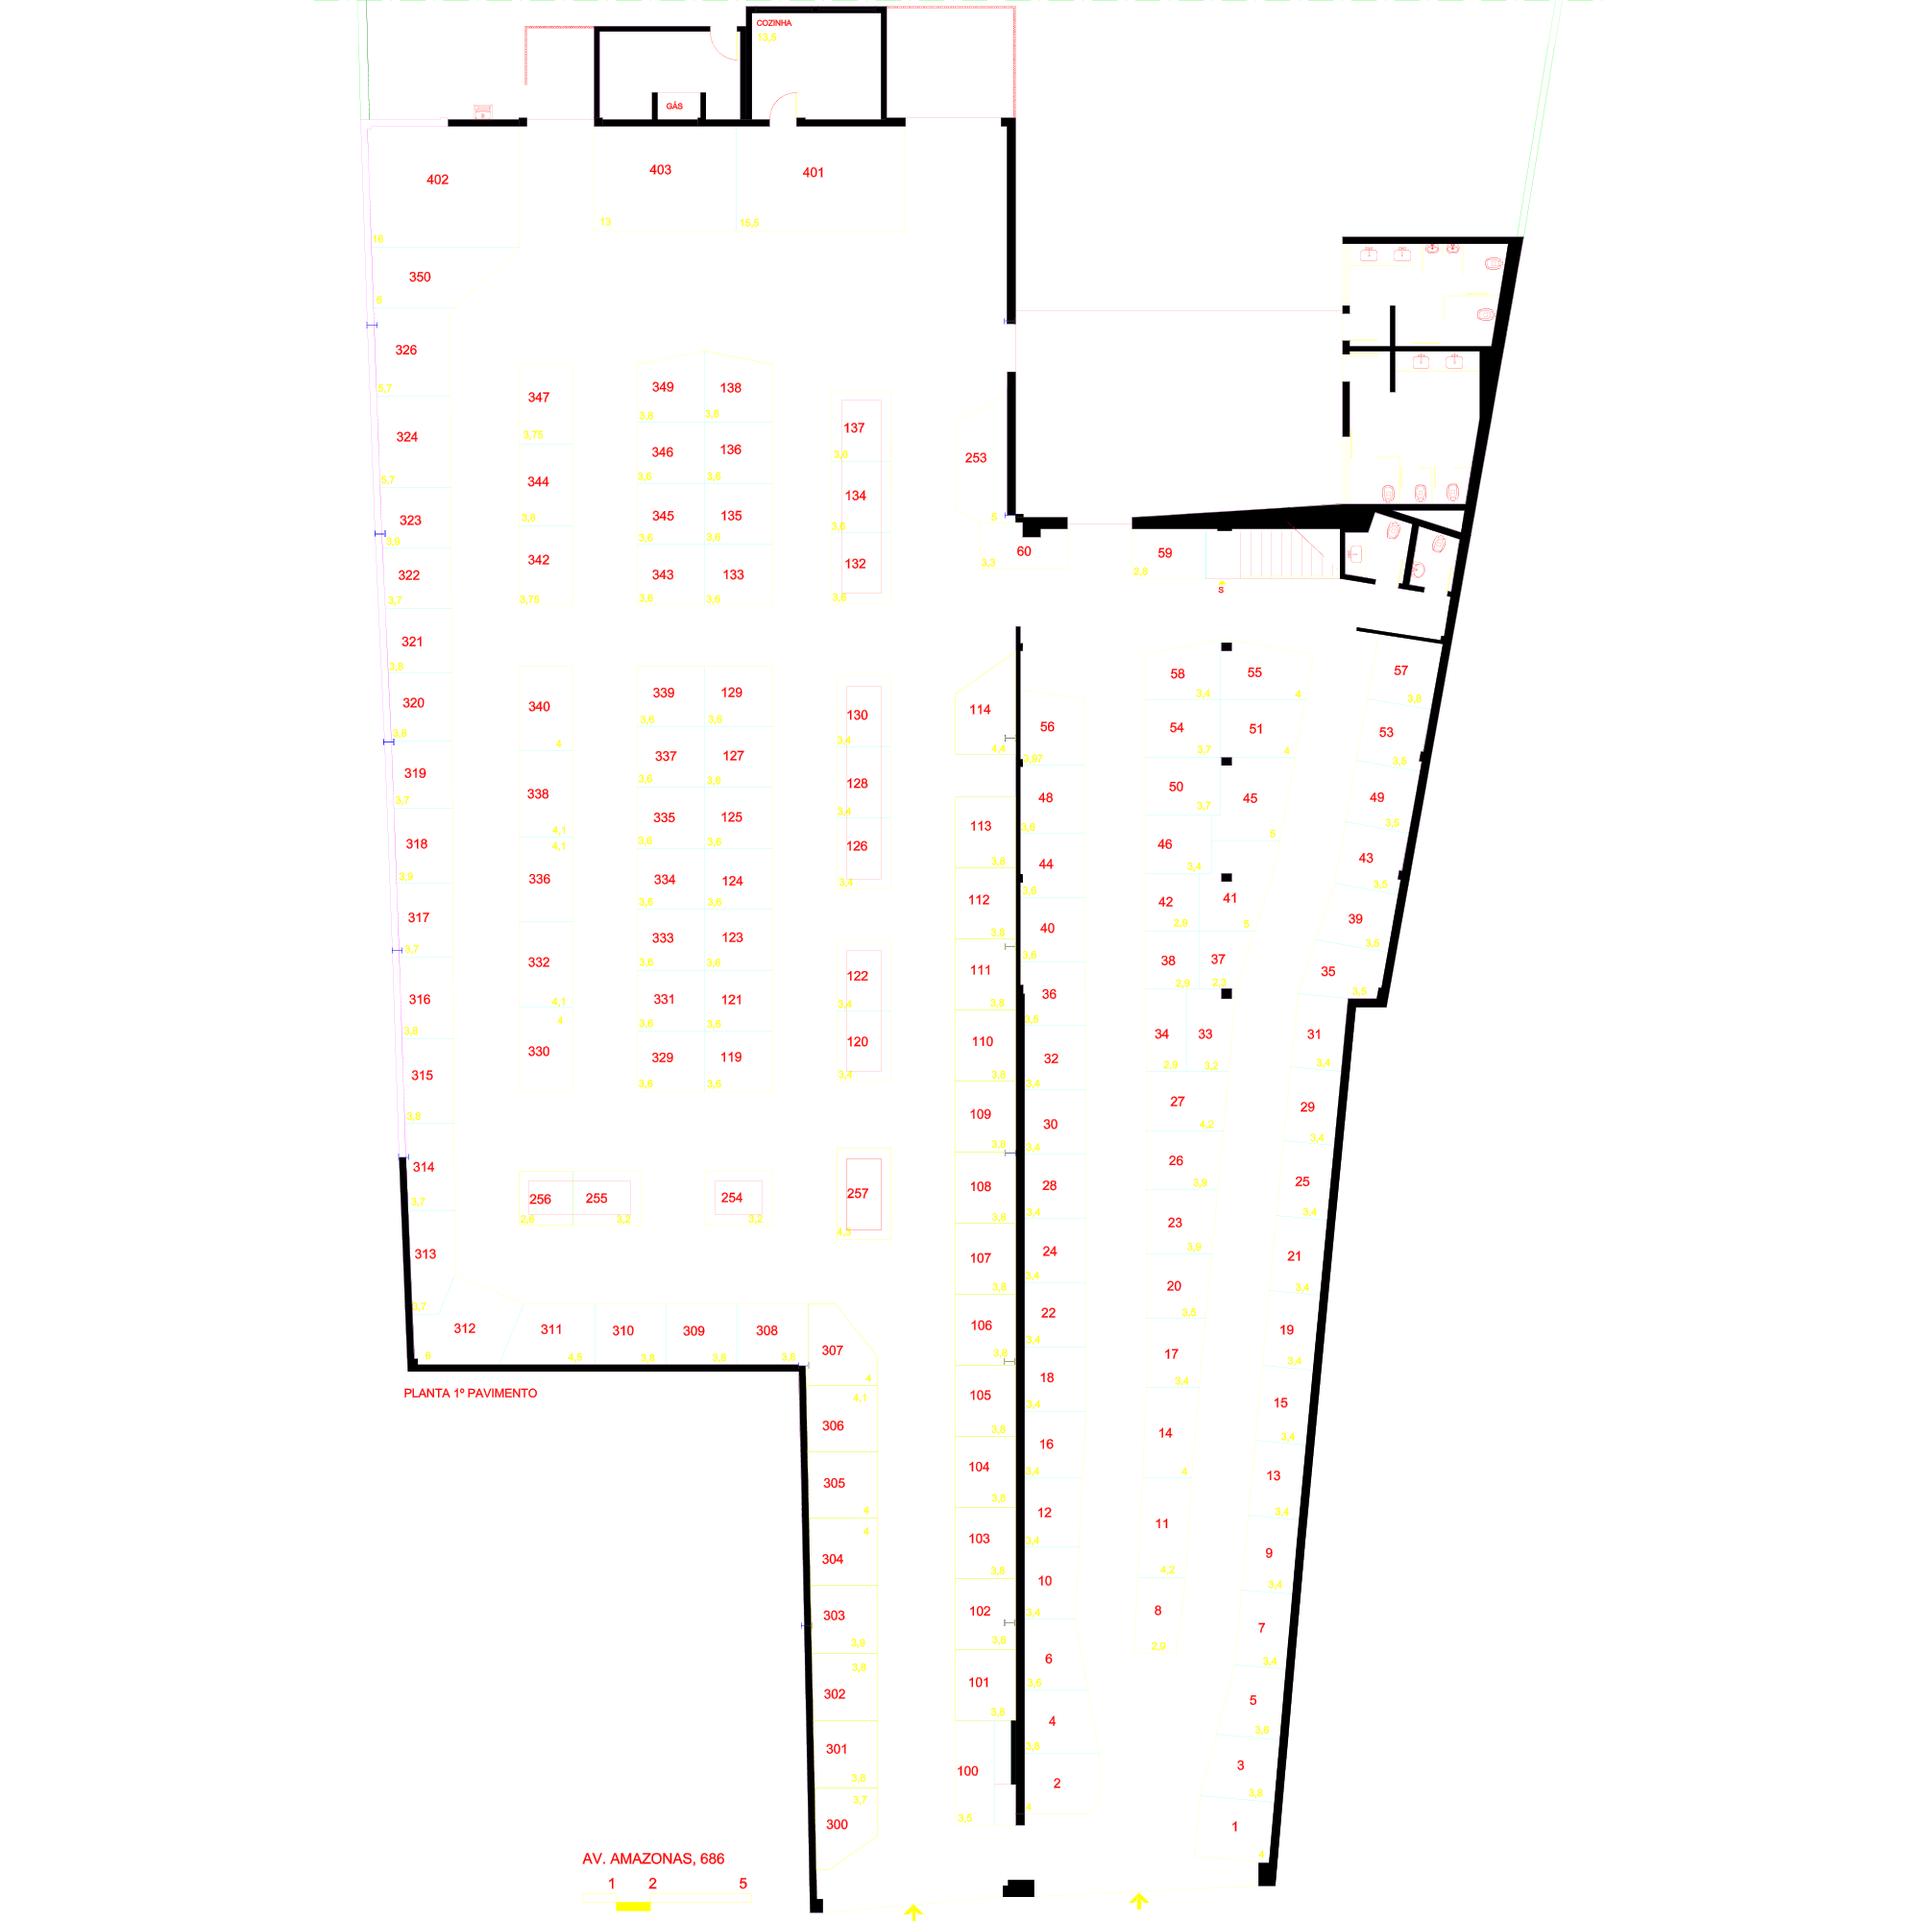
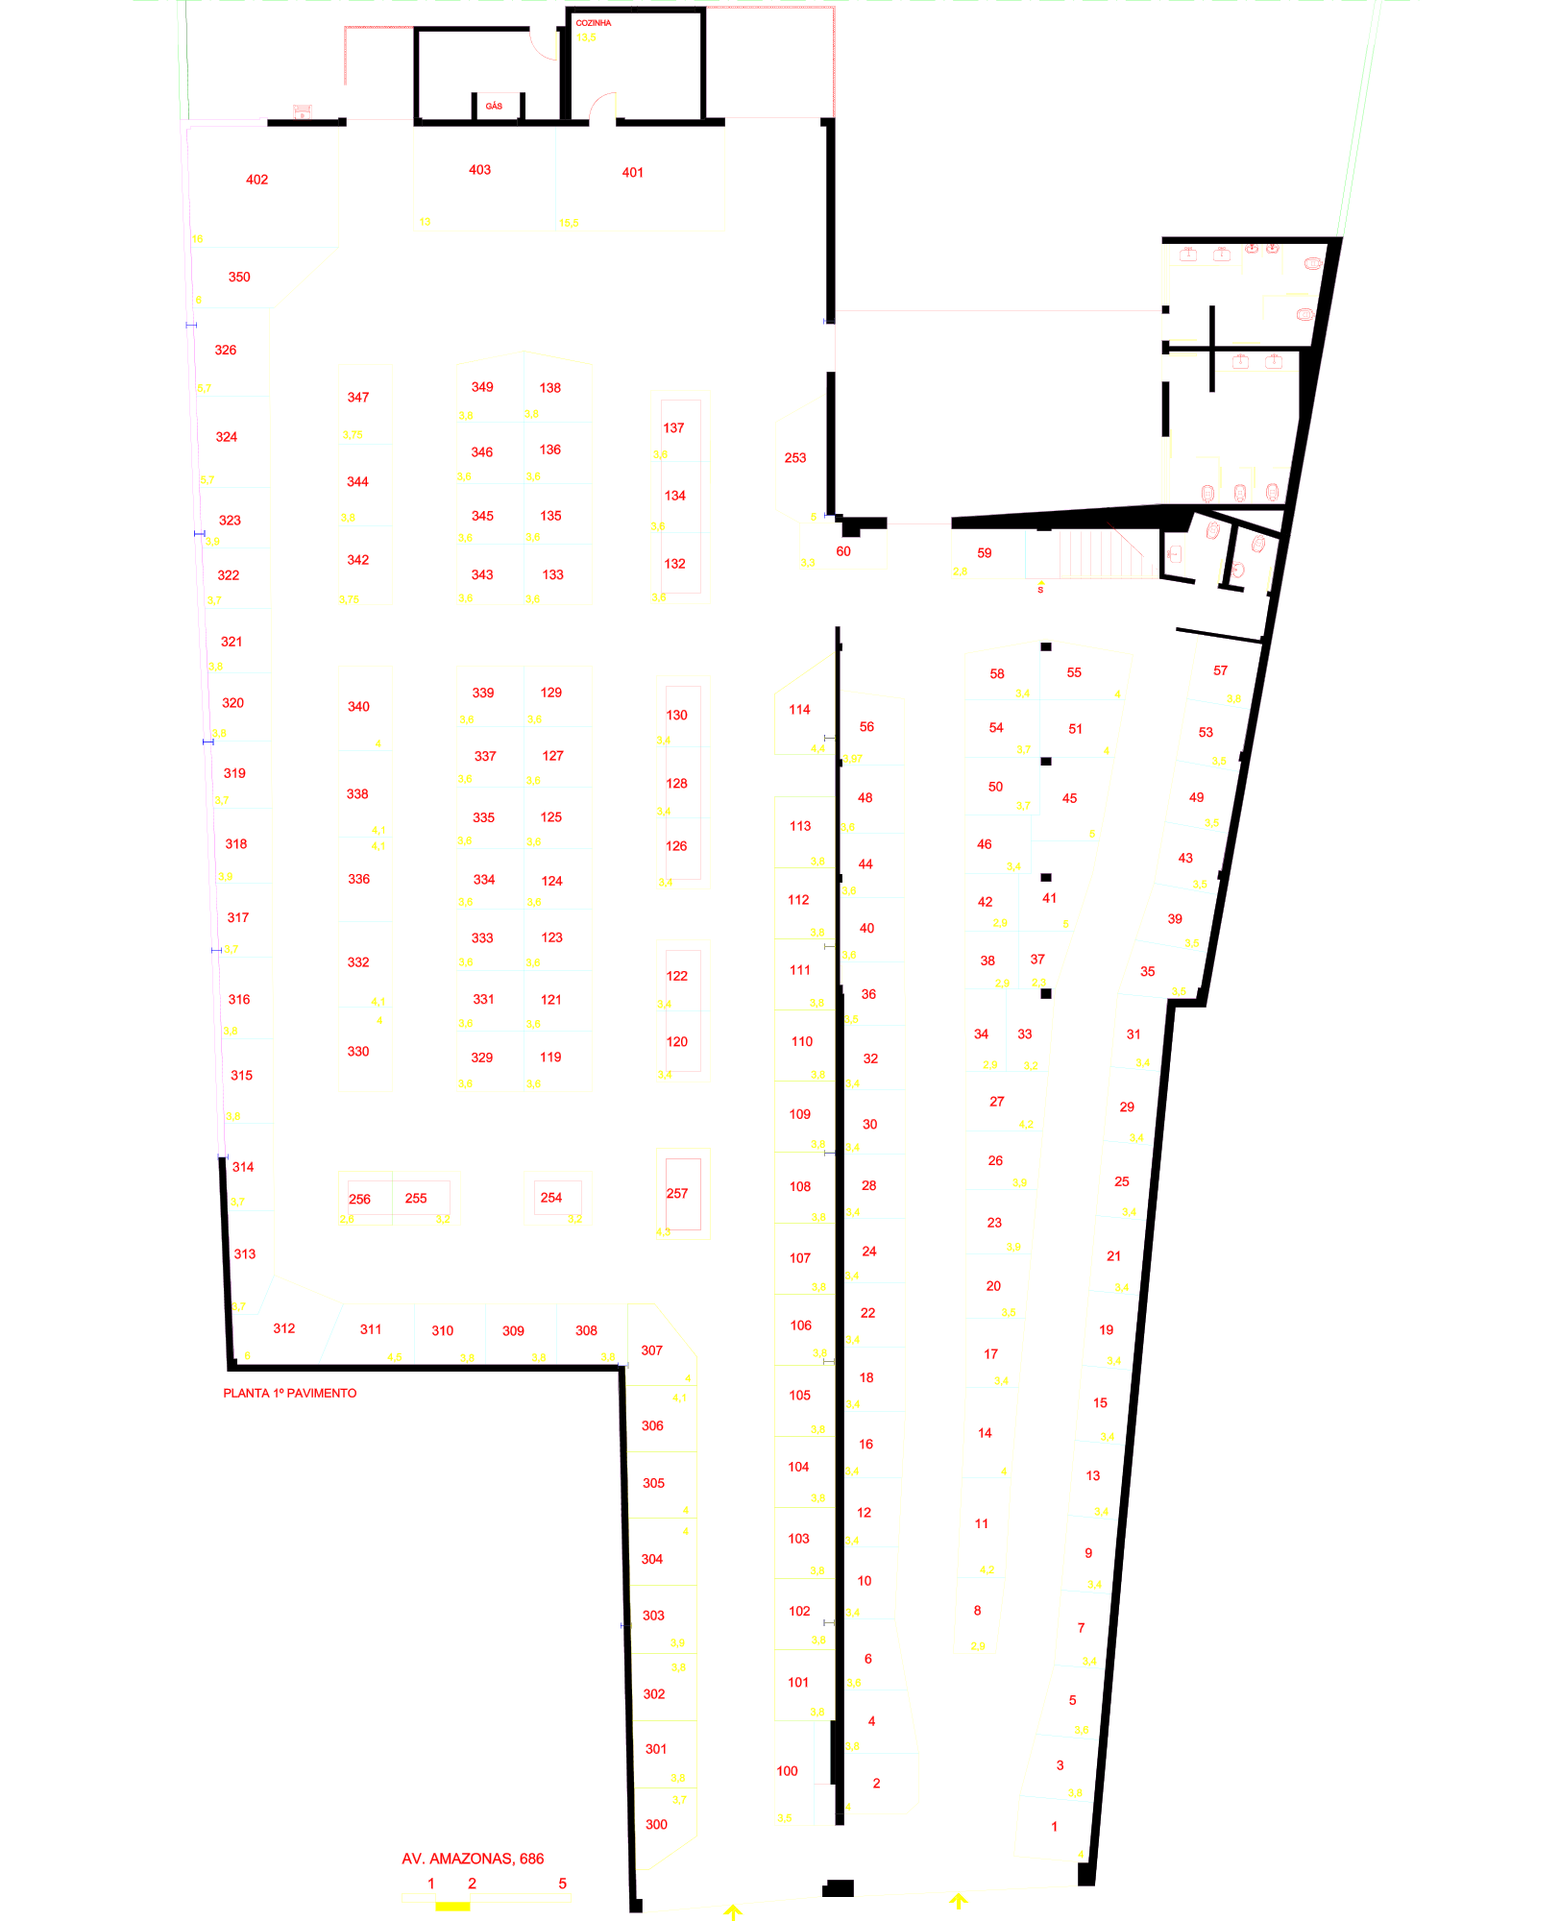
alteracao para permitir imagens de dimensoes proporcionais

diff --git a/src/feiraShop/StandExtrator.java b/src/feiraShop/StandExtrator.java
@@ -76,13 +76,13 @@ public class StandExtrator{
 		ParserOptions options = new ParserOptions();
 		options.setDpi(1000);
 		options.setQuality(1000);
-		//options.setPaper(ParserOptions.PAPER_A3);
 		options.setHeight(2000);
-		options.setWidth(2000);
+		options.setWidth (2000);
 		options.setUnit(ParserOptions.UNIT_PIXEL);
-		options.setBoundsRule(ParserOptions.BOUNDS_RULE_MODELSPACE);
+		options.setBoundsRule (ParserOptions.BOUNDS_RULE_MODELSPACE);
 		options.setOutputStyle(ParserOptions.OUTPUT_STYLE_NAME);
-		options.setOrientation(ParserOptions.ORIENTATION_LANDSCAPE);
+		options.setOrientation(ParserOptions.ORIENTATION_AUTO);
+		options.setProportional(true);
 		options.setSvgOverflow(true);
 		
 		try {
@@ -193,7 +193,7 @@ public class StandExtrator{
 				
 				double largEsperada = ((width*options.getHeight()) /height);				
 				double xEsperado    = (largEsperada * xAntigo    ) / width;				 
-				double diference    = options.getWidth()-largEsperada;
+				double diference    = exporter.getOutputWidth()-largEsperada;
 				double xNovo        = xEsperado+(diference/2);
 				stand.setX(xNovo);				
 				
@@ -231,13 +231,13 @@ public class StandExtrator{
 			*    y_novo = y_esperado + diferenca/2
 			*/
 			}else{
-				stand.setX((options.getWidth() * stand.getX()) / width);
+				stand.setX((exporter.getOutputWidth() * stand.getX()) / width);
 				
 				double yFinalAntigo = stand.getEndY();
 				
-				double alturaEsperada = ((height*options.getWidth())/width);				
+				double alturaEsperada = ((height*exporter.getOutputWidth())/width);				
 				double yEsperado = (alturaEsperada * stand.getY()) / height;
-				double diference = options.getHeight()-alturaEsperada;
+				double diference = exporter.getOutputHeight()-alturaEsperada;
 				stand.setX(yEsperado+(diference/2));
 				
 				//Utiliza o mesmo processo para encontrar as coordenadas do fim do elemento
